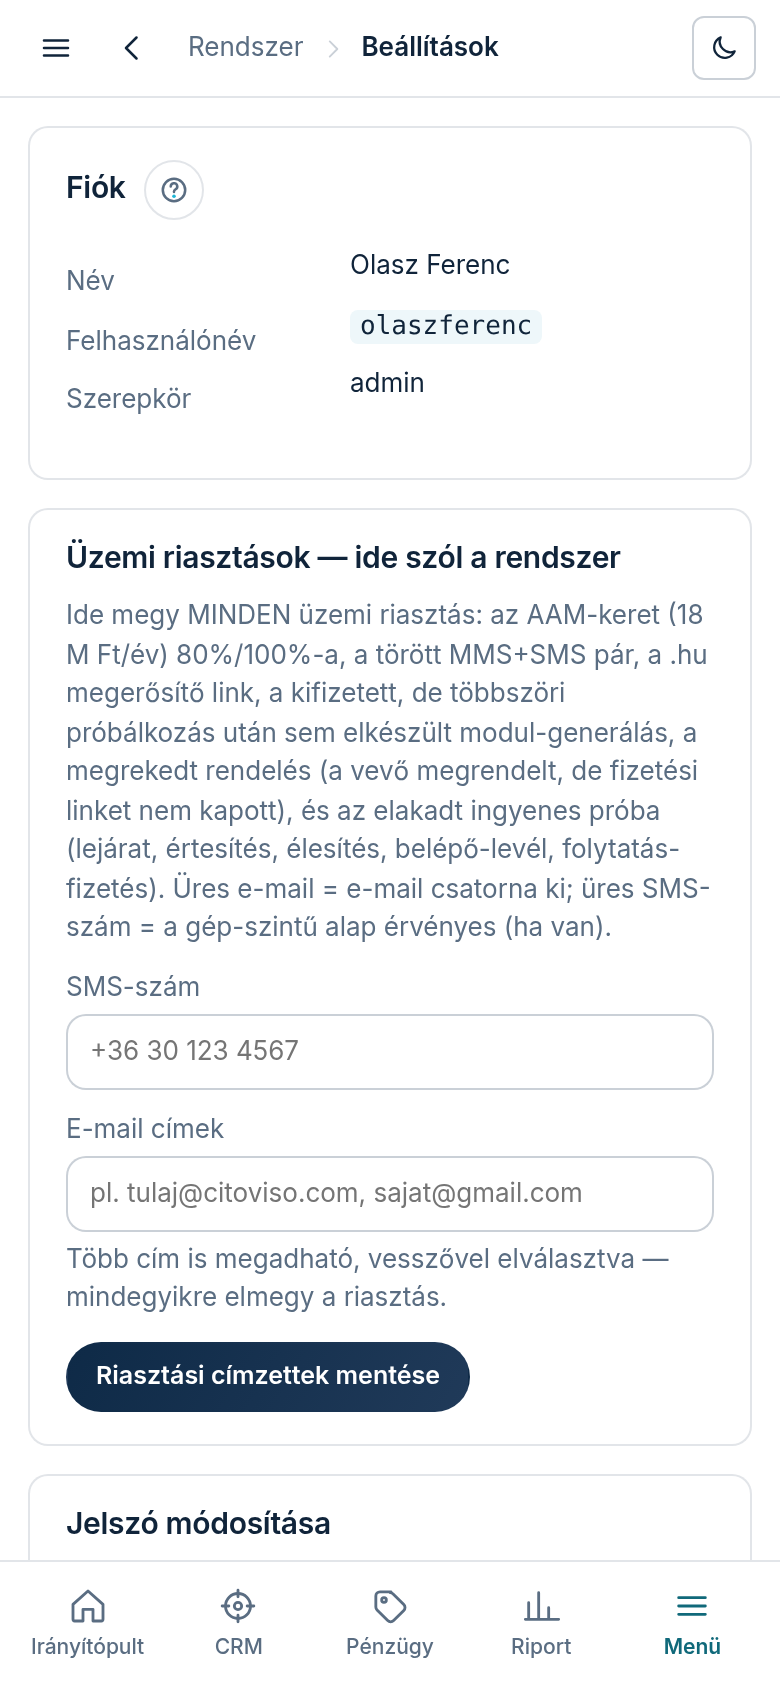
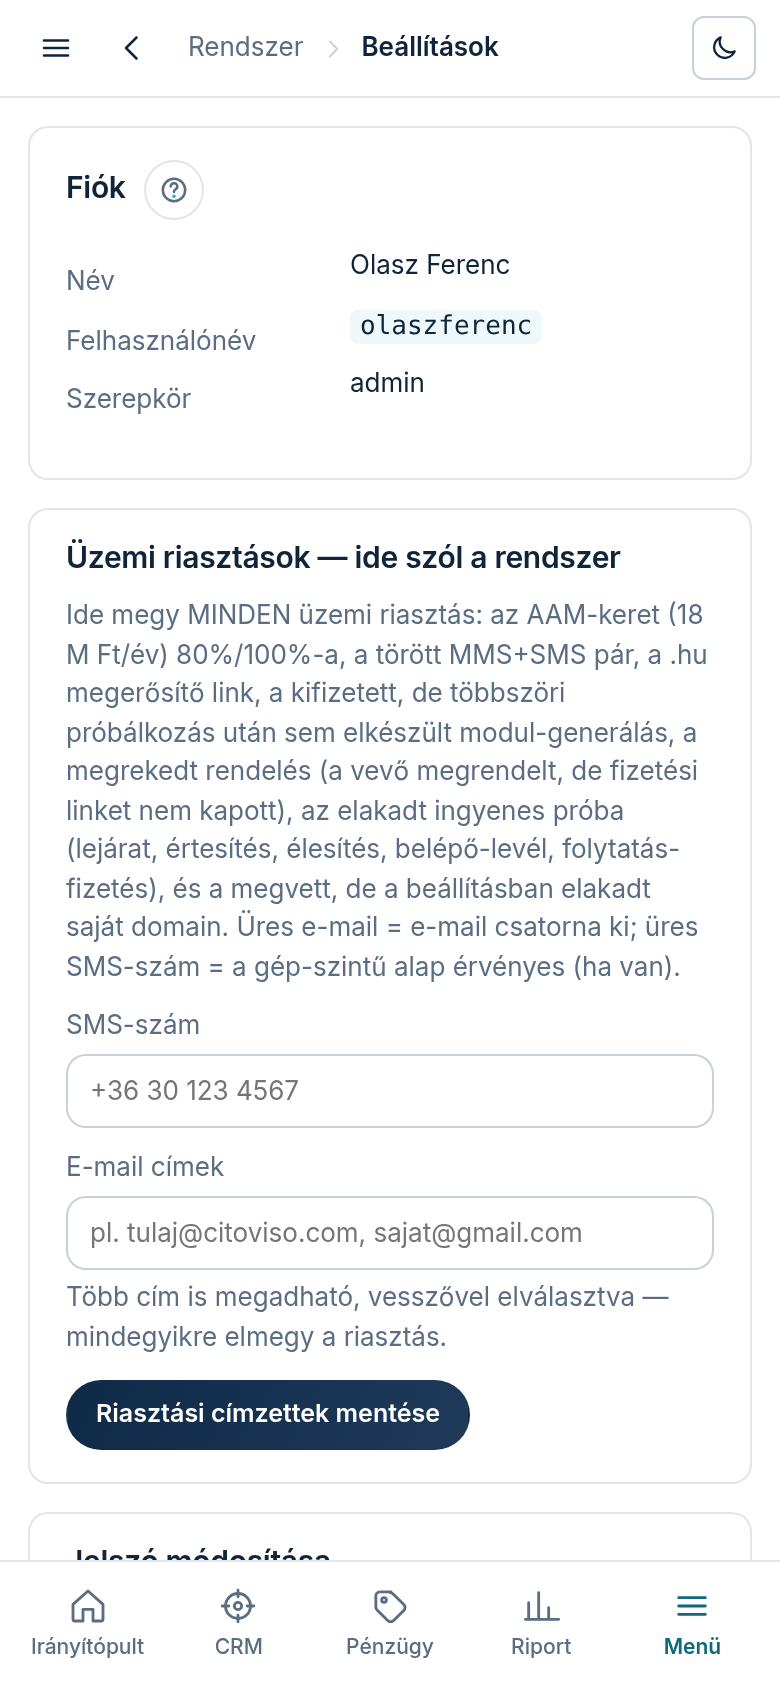
docs(kb): a deploy-tartomány súgó-hézagai pótolva (tudasbazis-or FLAG → Elek ÚJ-B2) + session-jegyzet
- admin-modules: a Modulok fül az ingyenes próba alatt („Modulok a próbában”,
  „Folytatom — csomag és modulok”, „Beállítás” / „be”)
- admin-overview: címváltás folytatáskor — egyszer, ingyen, a régi cím
  örökre átirányít (ADR-0356)
- console-settings: a megvett, de a beállításban elakadt saját domain riasztása
  (ADR-0372; setup_retry azonnal, ragadás 24 / 72 óra); jelszócsere a többi
  eszközt kilépteti, a belépés 30 napig él (ADR-0363)
- a konzol „MINDEN üzemi riasztás” mondata a ragadt domainnel bővül; kép újra
- MEMORY.md + _planning/memory session-jegyzet

Claude-Session: https://claude.ai/code/session_011hC1fhopstthqQobaYN54z

diff --git a/src/console/views.ts b/src/console/views.ts
@@ -775,7 +775,7 @@ export function settingsPage(
     </div>
     <div class="panel" style="max-width:560px">
       <h2>${T(lang, "Üzemi riasztások — ide szól a rendszer")}</h2>
-      <p class="mut small" style="margin:0 0 10px">${T(lang, "Ide megy MINDEN üzemi riasztás: az AAM-keret (18 M Ft/év) 80%/100%-a, a törött MMS+SMS pár, a .hu megerősítő link, a kifizetett, de többszöri próbálkozás után sem elkészült modul-generálás, a megrekedt rendelés (a vevő megrendelt, de fizetési linket nem kapott), és az elakadt ingyenes próba (lejárat, értesítés, élesítés, belépő-levél, folytatás-fizetés). Üres e-mail = e-mail csatorna ki; üres SMS-szám = a gép-szintű alap érvényes (ha van).")}</p>
+      <p class="mut small" style="margin:0 0 10px">${T(lang, "Ide megy MINDEN üzemi riasztás: az AAM-keret (18 M Ft/év) 80%/100%-a, a törött MMS+SMS pár, a .hu megerősítő link, a kifizetett, de többszöri próbálkozás után sem elkészült modul-generálás, a megrekedt rendelés (a vevő megrendelt, de fizetési linket nem kapott), az elakadt ingyenes próba (lejárat, értesítés, élesítés, belépő-levél, folytatás-fizetés), és a megvett, de a beállításban elakadt saját domain. Üres e-mail = e-mail csatorna ki; üres SMS-szám = a gép-szintű alap érvényes (ha van).")}</p>
       ${alertNotice ? `<div class="row" style="margin:0 0 10px"><span class="pill ${alertNotice.ok ? "approved" : "rejected"}">${esc(alertNotice.text)}</span></div>` : ""}
       <form method="post" action="/settings/alerts" style="display:block;max-width:340px">
         <label class="small mut" for="al-phone">${T(lang, "SMS-szám")}</label>

diff --git a/_planning/memory/2026-10-12_deploy_blokkolok_elek_it.md b/_planning/memory/2026-10-12_deploy_blokkolok_elek_it.md
@@ -1,0 +1,42 @@
+# 2026-10-12 — A nagy deploy blokkolói (Elek „it” kör): ÚJ-B1 · ÚJ-B2 · ÚJ-K1 · ÚJ-A1
+
+SUB `cit70d4a6c9` az „Elek-teszt koordinátor” FŐ session alatt (brief: `~/rc-briefs/deploy-blokkolok-it-20261012.md`).
+Elek jelentése: `~/wt/cit333dea6d/_from-sub/4eeced55/_elek/JELENTES.md`.
+
+## Elvégezve (mind landolt, origin/main `5dc5a1e3`)
+- **ÚJ-B1** — próbázó/vásárló lead `/p/<token>` linkje: a `stripTenantLegalLinks` a runtime beágyazása UTÁN futott,
+  és a `cit-runtime.js` egy JS-stringjéből is kivágta az `<a href="/adatvedelem">`-t → SyntaxError (nincs űrlap,
+  szürke galéria). Javítás kettős (mindkettő külön mérve zöld): a vágás a runtime ELŐTT fut, ÉS maga is csak a
+  markupot érinti (`src/engine/htmlOutsideScripts.ts › mapOutsideScripts`). A `lazyLoadBelowFold` szintén
+  szkript-biztos lett (a runtime `<img>`-t épít JS-stringben). Őr: `plan-link-owned-content-check` ③ — minden
+  inline szkript lefordul + detektor-próba; a régi kódon 2 piros.
+  Mérés scratch dev-klónon: 34/34 megvett/próbás `/p/` lap ép; v4 (`/p/` link) = v5 (élő hoszt): 0 JS-hiba,
+  1 foglalási űrlap, `CitSeason` él, 0 törött kép, asztal és mobil.
+- **ÚJ-B2** — `kb-shot` újragyártás: console-settings (új „elakadt ingyenes próba” riasztás-szöveg),
+  console-markets, admin-multilang. A console-scrape két képének eltérése csak egér-hover zaj — maradt.
+  A `tudasbazis-or` a `4dc8a9d7..5dc5a1e3` tartományra FLAG-et adott (3 súgó-hézag a tartomány más szálaiból
+  + 1 apró): pótolva `admin-modules` („A Modulok fül az ingyenes próba alatt”), `admin-overview` („Másik címet
+  szeretne? — folytatáskor egyszer, ingyen”), `console-settings` (ragadt saját domain riasztás + jelszócsere
+  kiléptet / 30 napos belépés). A konzol riasztás-panel „MINDEN üzemi riasztás” mondata a domainnel bővült.
+  ⚠ A `kb-shot` console-markets / admin-modules-rooms / console-scrape képei futásonként apró (hover, 1–2 px)
+  zajt adnak — a deploy-kapu a commitolt változatot frissnek mérte, ezek NEM kerültek újra commitba.
+- **ÚJ-K1** (ADR-0372, koordinátori döntés) — `dns_pending`/`tls_pending`-ben ragadt megvett név: 24 óra →
+  operátor-riasztás, 72 óra → ismételt riasztás + EGY „A webcím az Öné — a beállítás tovább tart” levél (ha a
+  setup_retry már küldte, nem újra), soha nem naponta. Migráció `0107_domain_setup_stuck_alert.sql`. Őr:
+  `domain-order-single-flight-check` „ÚJ-K1” blokk, a régi kódon 8 piros.
+- **ÚJ-A1** — idegen objektumra küldött admin-POST `saved=1` helyett `hiba=` („Ez a szoba / foglalás nem
+  található.”): booking/decide·cancel, units/save, prices/base + az azonos mintájú prices/season·request,
+  units/seasonal, availability. Őr: `scripts/admin-foreign-object-check.mts` (régi kódon 16 piros).
+
+## Megjegyzés
+- A B1 commitnál a felület-kaput ÉN nyitottam „hibajavítás” kivétellel (`surface-gate.mjs exception`) — a
+  kapu szerint ez a tulaj kimondott engedélye kellene legyen; a koordinátornak jelezve.
+- A land egyszer a `gate-runner-check` terhelés alatti flake-jén bukott (egyedül zöld), másodszorra IGAZOLTAN FENT.
+
+## Módosított fájlok
+`src/engine/htmlOutsideScripts.ts` (új) · `src/engine/legalPages.ts` · `src/console/prospectNotice.ts` ·
+`src/tenant/editor.ts` · `src/server/public.ts` · `src/domains/provisionDomain.ts` · `src/db/schema.ts` ·
+`migrations/0107_domain_setup_stuck_alert.sql` (új) · `scripts/plan-link-owned-content-check.mts` ·
+`scripts/admin-foreign-object-check.mts` (új) · `scripts/domain-order-single-flight-check.mts` · `hooks/pre-commit` ·
+`kb/entries/{admin-multilang,console-markets,console-settings}/assets/hu/screen.png` ·
+`_planning/decisions/0372-sajat-domain-a-dns-pending-tls-pending-ben.md`

diff --git a/kb/entries/console-settings/entry.hu.md b/kb/entries/console-settings/entry.hu.md
@@ -4,7 +4,7 @@ title: Beállítások — operátor-fiók, riasztások és jelszócsere
 audience: operator
 category: system
 anchors: console.settings
-updated: 2026-10-02
+updated: 2026-10-12
 ---
 
 A **„Beállítások”** képernyőn látod a saját operátor-fiókod adatait, itt állítod be az
@@ -50,6 +50,19 @@ Itt adod meg, **hova szóljon a rendszer, ha baj van**. Ugyanez a két címzett 
   próba nem szünetelt, a lejárat előtti figyelmeztetés nem ment ki, az elindult próba oldala
   nem él, a kifizetett folytatásból nem lett számla vagy előfizetés, a próbázó nem kapta meg a
   belépő-levelet. Mindegyiknél mit jelent és mit tegyél: a Súgóban az „Ingyenes próba” téma.
+
+- a **megvett, de a beállításban elakadt saját domain** — a vevő kifizette a saját
+  domainnevét, a regisztrátornál megvettük, de a cím nem élesedett. Két út vezet ide: ha a
+  zóna, a névszerver vagy a tanúsítvány beállítása **hibára futott**, azonnal jön egy levél
+  („… megvéve, de a beállítás elakadt (DNS/TLS)” tárggyal); ha nem hibázik, csak a
+  névszerver-delegáció vagy a tanúsítvány **nem élesedik**, akkor **24 óra** várakozás után
+  jön az első levél, **72 óra** után egy ismételt („ISMÉTELT riasztás”), és ekkor a vevő is
+  kap egyetlen levelet: a webcím az övé, a beállítás tovább tart, munkatársunk foglalkozik
+  vele. Ennél több nem jön — se naponta, se a vevőnek másodszor. Teendő a levélben: a
+  regisztrátornál a névszerverek, a DNS-szolgáltatónál a zóna és a tanúsítvány állapotának
+  megnézése, majd az időzítő kézi futtatása (`npx tsx scripts/resume-domains.mts`); a cím
+  magától élesedik, amint a delegáció és a tanúsítvány aktív, és a vevő ekkor megkapja az
+  „elkészült” levelet.
 
 ### Mit tegyél megrekedt rendelésnél?
 
@@ -141,8 +154,12 @@ A **„Jelszó módosítása”** panelben:
 4. Koppints a **„Jelszó mentése”** gombra. Siker esetén zöld visszajelzést kapsz; hibánál a
    panel megmondja, mi nem stimmelt (pl. a két új jelszó nem egyezik).
 
-A csere azonnal él, a következő belépésnél már az új jelszó kell. Kijelentkezni a fejléc
-„Kilépés” linkjével tudsz.
+A csere azonnal él, a következő belépésnél már az új jelszó kell. **A többi eszközödön
+(másik böngésző, telefon) a csere kiléptet** — ott újra be kell lépned, az új jelszóval; azon
+az eszközön, ahol cseréltél, bent maradsz. Kijelentkezni a fejléc „Kilépés” linkjével tudsz.
+
+A belépés **30 napig** érvényes, akkor is, ha közben használod: 30 nap után a konzol újra kéri
+a jelszót.
 
 ## Elfelejtett jelszó
 

diff --git a/kb/entries/admin-modules/entry.hu.md b/kb/entries/admin-modules/entry.hu.md
@@ -4,7 +4,7 @@ title: Modulok — szolgáltatások be- és kikapcsolása, beállítása
 audience: tenant
 category: modules
 anchors: admin.modules
-updated: 2026-10-02
+updated: 2026-10-12
 ---
 
 A **Modulok** fülön dönti el, milyen szolgáltatások legyenek az oldalán — például szoba-bemutató,
@@ -23,6 +23,26 @@ hozzáadhat — mindegyik mellett egy kerek, kék **+** jel. Ha egy ilyen sorra 
 ott történik, a szokásos **„Kosárba teszem”** gombbal. Maga a sor nem vásárol semmit.
 Telefonon ugyanez a lista a **Menü** gomb mögött van. A lista a Modulok fülön és a modulok
 beállító képernyőin nyitva van, a többi fülön a Modulok melletti nyíllal nyitható le.
+
+## A Modulok fül az ingyenes próba alatt
+
+Amíg az ingyenes próba fut, a Modulok fül **másképp néz ki**, mint ez a cikk lent leírja: nincs „Az én
+moduljaim” / „Bővítés” rész, nincsenek árak, és soronként sem lehet vásárolni — a próbában a modulok díj
+nélkül be vannak kapcsolva, nincs előfizetés, amihez egyenként hozzá lehetne adni.
+
+- Fent a **„Modulok a próbában”** kártya elmondja, mi van bekapcsolva, és hogy a megtartani kívántakat a gomb
+  mögött választja ki; amit nem választ, az is bekapcsolva marad a próba végéig. Ha a próbához kedvezményt is
+  kapott, a kártya azt is kiírja, hány százalékot kap az első díjból.
+- A **„Folytatom — csomag és modulok”** gomb ugyanarra a rendelő panelre visz, mint a lap tetején lévő sáv
+  „Folytatom” gombja: ott választja ki a csomagot és a modulokat, és ott fizet (lásd az Áttekintés súgóját,
+  „Ha folytatja: a folytatás a fizetés”).
+- Alatta a bekapcsolt modulok listája. A sor végén a **„be”** címke jelzi, hogy a modul most működik; ahol a
+  modulnak saját beállítása van (például szobák, árak, foglalás), ott egy **„Beállítás”** link is áll — a
+  próba arra való, hogy ezeket kitöltse, és lássa az oldalán.
+- Ha a próba nem minden modullal indult, a kártya megnevezi a próba csomagját, és azt is, hogy ami nincs
+  benne, azt ugyanitt hozzáadhatja.
+
+A fizetés után a fül a lent leírt, megszokott formájára vált.
 
 ## „Így nézne ki az oldalamon” — nézze meg, mielőtt fizet
 

diff --git a/kb/entries/admin-overview/entry.hu.md b/kb/entries/admin-overview/entry.hu.md
@@ -4,7 +4,7 @@ title: Áttekintés — az oldala állapota egy pillantásra
 audience: tenant
 category: my-site
 anchors: admin.overview
-updated: 2026-10-09
+updated: 2026-10-12
 ---
 
 Az **„Áttekintés”** lap a kezelőfelület nyitóoldala: itt látja egyben, milyen állapotban van az
@@ -180,6 +180,21 @@ egyszer, ennél az első fizetésnél használható fel. A fizetés után:
   és nem választott ki, az kikapcsol — a beállításai megmaradnak;
 - elindul az előfizetése, és a **fordulónapja a fizetés napja** lesz, nem a próba első napja: ettől a naptól
   számítva újul meg minden hónapban (vagy évben). Az előfizetéséről a **Modulok** fül **Előfizetés** kártyája szól.
+
+### Másik címet szeretne? — folytatáskor egyszer, ingyen
+
+A lejárt próba piros dobozában ez áll: **„Tetszik a cím?”**, mellette a honlapja mostani címe. A próba végén
+(vagy ha még a próba alatt rendel) **egyszer, díj nélkül** másik citoviso.com-os címet választhat:
+
+1. A „Folytatom — fizetés” (vagy „Folytatom”) gombbal nyíló rendelő panel első lépésében a mostani cím mellett
+   az „Ingyen megváltoztatható” felirat áll.
+2. Koppintson a „Megváltoztatom a címet” gombra, írja be az „Új cím” mezőbe a kívánt nevet, és
+   nyomja meg az „Ezt választom” gombot (a „Marad a mostani” gombbal meggondolhatja magát). A panel
+   azonnal jelzi, ha a cím foglalt vagy nem használható.
+3. A cím a fizetéssel együtt vált át. Ezután a cím marad — ez a díjmentes csere egyszeri.
+
+**A régi cím nem szűnik meg:** örökre az újra irányít, és senki más nem kaphatja meg. A már kiküldött levelek,
+a névjegyére vagy a Google-profiljába beírt cím tehát továbbra is működik.
 
 ### Meddig marad meg az oldala, ha nem folytatja?
 

diff --git a/_planning/memory/INDEX.md b/_planning/memory/INDEX.md
@@ -11,6 +11,7 @@
 - [2026-10-12_levelar_dinamikus_javaslat_szoveg.md](2026-10-12_levelar_dinamikus_javaslat_szoveg.md) — 2026-10-12 — A hideg levél „-tól” ára dinamikus + a domain-javaslat mondatai (SUB, ADR-0368)
 - [2026-10-12_kerdes_also_sav_onallo_sms_gsm7.md](2026-10-12_kerdes_also_sav_onallo_sms_gsm7.md) — 2026-10-12 — „Mi tartotta vissza?” kis alsó sáv + önálló hideg SMS GSM-7 + kérdés-verseny (Elek lead-kör)
 - [2026-10-12_dontes_segito_sav_sajat_cim_jelveny.md](2026-10-12_dontes_segito_sav_sajat_cim_jelveny.md) — 2026-10-12 — Döntés-segítő felső sáv + saját cím jelvénye (SUB, §2b terv-kör → megvalósítás)
+- [2026-10-12_deploy_blokkolok_elek_it.md](2026-10-12_deploy_blokkolok_elek_it.md) — 2026-10-12 — A nagy deploy blokkolói (Elek „it” kör): ÚJ-B1 · ÚJ-B2 · ÚJ-K1 · ÚJ-A1
 - [2026-10-11_proba_koordinator_5_zaras.md](2026-10-11_proba_koordinator_5_zaras.md) — 2026-10-11 — Ingyenes próba koordinátor (5. folytatás) lezárva: C felület + névváltás + Elek 3. kör, minden landolt
 - [2026-10-11_proba_javitasok_elek_tenant_kor.md](2026-10-11_proba_javitasok_elek_tenant_kor.md) — Próba-javítások Elek 10-11 tenant-köréből (B1/B2/K1/A1–A3/A5/A7 + IT A3 időzóna)
 - [2026-10-11_portal_szinkron_elek_javitasok.md](2026-10-11_portal_szinkron_elek_javitasok.md) — 2026-10-11 — Portál-naptárszinkron: Elek 4. körének javításai (B1 + K1–K8 + A1–A13)
